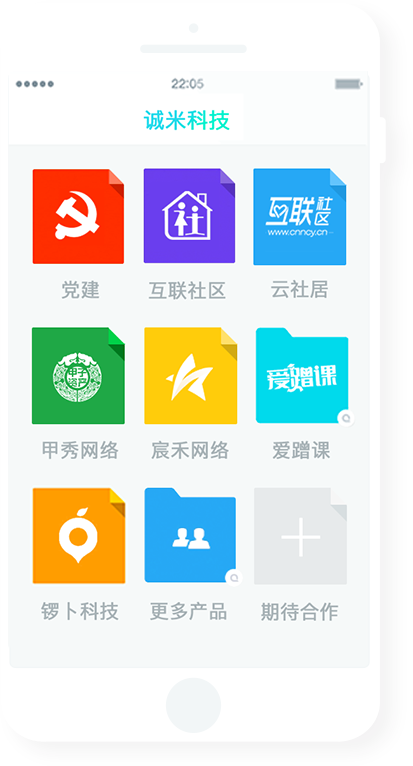
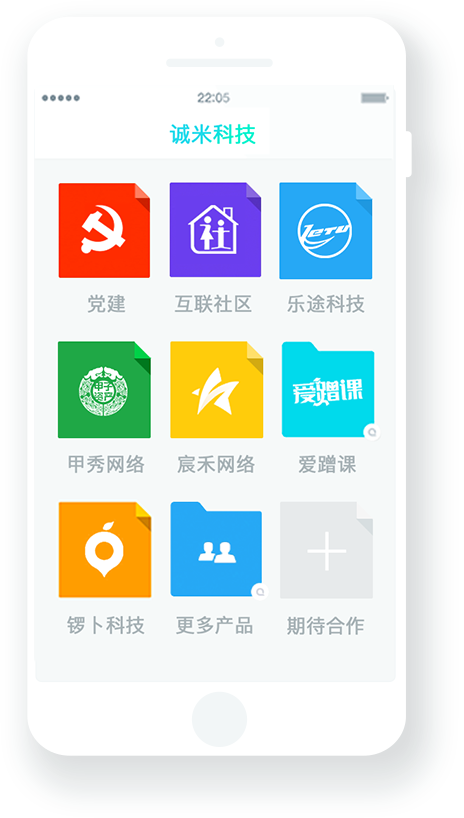
添加新页

diff --git a/index.html b/index.html
@@ -5,7 +5,7 @@
     <meta charset="utf-8">
     <meta http-equiv="X-UA-Compatible" content="IE=edge,chrome=1">
     <meta name="viewport" content="width=device-width, initial-scale=1, maximum-scale=1, user-scalable=no">
-    <title>诚米科技</title>
+    <title>诚米科技：为优质传统企业及创业公司提供“互联网+”产品设计及信息技术整体解决方案</title>
     <link rel="stylesheet" href="assets/css/global.css">
     <link rel="stylesheet" href="assets/css/animations.css">
         <script src="assets/js/zepto.min.js"></script>
@@ -54,7 +54,7 @@
             </div>
             <div class="item page page4 swiper-slide" id="page4">
                 <div class="txtbox">
-                    <div class="tit flex-box"><img src="assets/image/page4-1.png">浙江宸禾网络科技有限公司</div>
+                    <div class="tit flex-box"><img src="assets/image/page4-1.png">杭州宸禾网络科技有限公司</div>
                     <div class="con">杭州宸禾网络科技有限公司是浙江宸禾影业有限公司旗下的线上运营平台服务公司，诚米科技为其研发了一款线上选角服务管理平台，“明星梦APP”是面向有演艺梦想的用户，进行线上选角以及直播、活动、粉丝活动等的综合运营服务管理平台，诚米目前已为其研发了安卓与IOS版本。</div>
                 </div>
                 <div class="swiper-containerg swiper-container3">
@@ -96,6 +96,19 @@
                 <div class="pic pic1 ani" swiper-animate-effect="fadeInLeft" swiper-animate-duration="1s" swiper-animate-delay="0s"><img src="assets/image/page7-2.png"></div>
                 <div class="pic pic2 ani" swiper-animate-effect="fadeInRight" swiper-animate-duration="1s" swiper-animate-delay="0s"><img src="assets/image/page7-3.png"></div>
             </div>
+            <div class="item page page6 swiper-slide" id="page0216">
+                <div class="txtbox">
+                    <div class="tit flex-box"><img src="assets/image/page0216-1.png">杭州乐途科技有限公司</div>
+                    <div class="con">杭州乐途科技有限公司采用以“互联网+”无桩式智能单车与景区合作的模式，以解决传统景区租还车步骤繁琐、车辆管理成本高的问题，诚米应需研发了“乐途短途位移生态系统”。乐途在景点投放智能单车，用户可通过微信端的扫码识别进行单车租赁。</div>
+                </div>
+                <div class="swiper-containerg swiper-container3">
+                    <div class="swiper-wrapper">
+                        <div class="swiper-slide"><img class="img" src="assets/image/page0216-2.png"></div>
+                        <div class="swiper-slide"><img class="img" src="assets/image/page0216-3.png"></div>
+                        <div class="swiper-slide"><img class="img" src="assets/image/page0216-4.png"></div>
+                    </div>
+                </div>
+            </div>
             <div class="item page page8 swiper-slide" id="page8">
                 <div class="txtbox">
                     <div class="tit">联系我们</div>
@@ -131,7 +144,7 @@
             $('#pic1').hide()
         }
 
-        if(cur==7){
+        if(cur==8){
             $('.start,.swiper-pagination').hide()
         }else{
             $('.start,.swiper-pagination').show()
